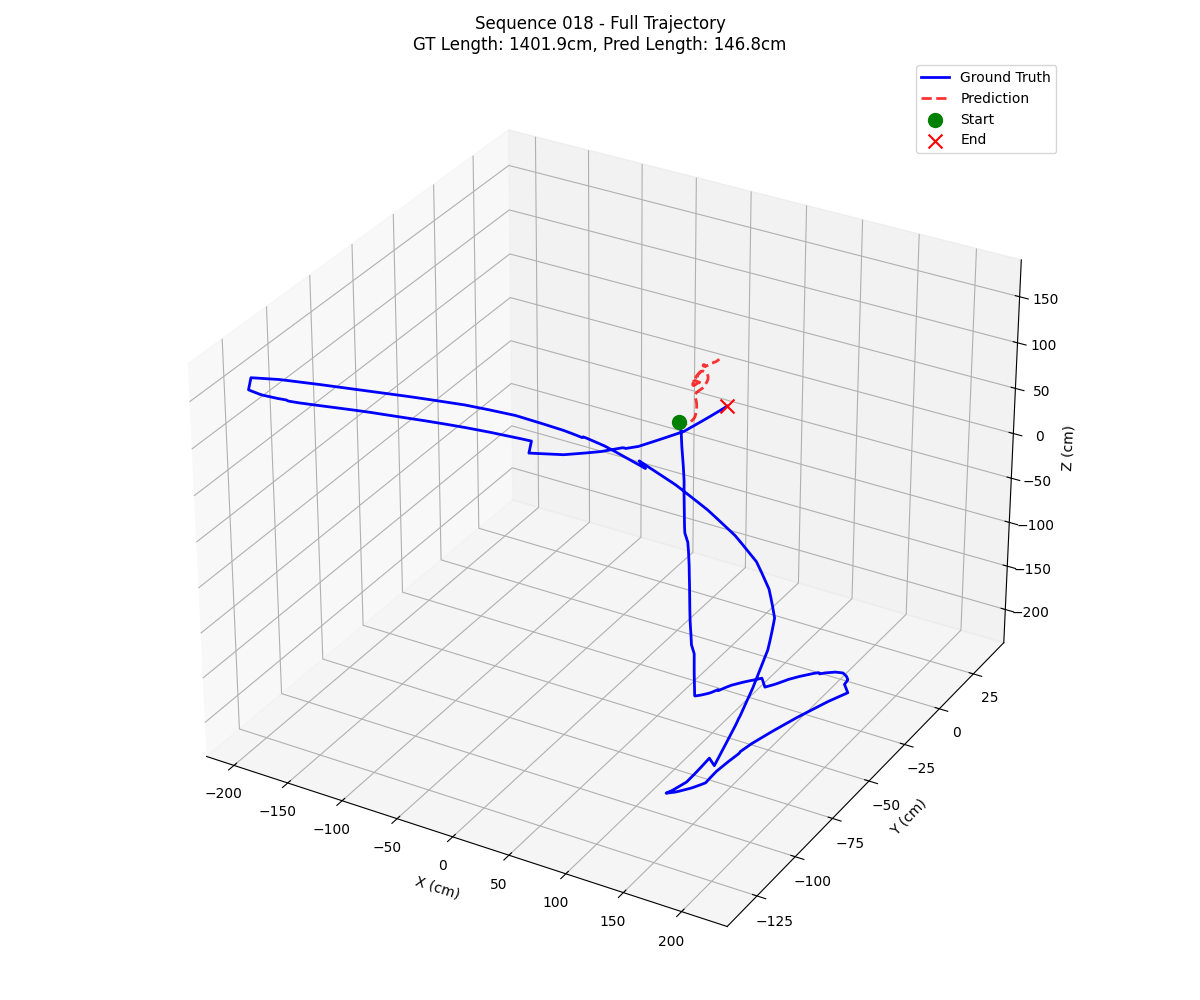
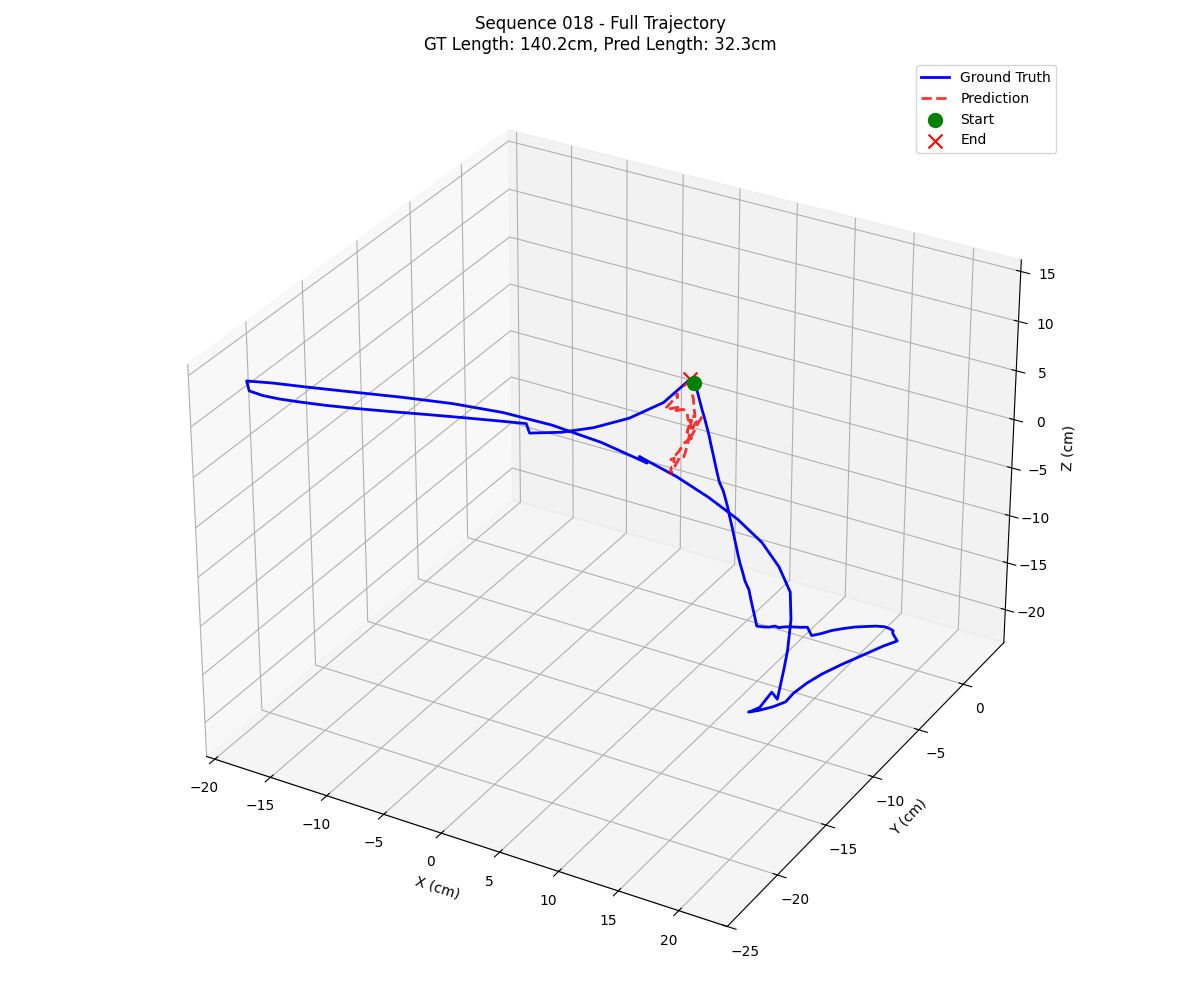
only predict the last relative position

diff --git a/train_vift_aria_stable.py b/train_vift_aria_stable.py
@@ -132,8 +132,8 @@ class VIFTStable(nn.Module):
         output = self.fc2(output)
 
         # For relative poses between consecutive frames
-        # Use full sequence of relative pose outputs
-        predictions = output  # shape [B, seq_len, 7]
+        # Take only the last prediction (current -> next frame) to match paper
+        predictions = output[:, -1:, :]  # shape [B, 1, 7]
         
         # Split and normalize quaternions
         translation = predictions[:, :, :3]
@@ -182,14 +182,12 @@ def robust_geodesic_loss(pred_quat, gt_quat):
 
 def compute_stable_loss(predictions, batch, trans_weight=1.0, rot_weight=1.0):
     """Stable loss computation with gradient-friendly formulation"""
-    pred_poses = predictions['poses']
+    pred_poses = predictions['poses']  # [B, 1, 7] - only last prediction
     gt_poses = batch['poses']  # [B, seq_len, 7]
     
-    # Ensure shapes match
-    if pred_poses.shape[1] != gt_poses.shape[1]:
-        min_len = min(pred_poses.shape[1], gt_poses.shape[1])
-        pred_poses = pred_poses[:, :min_len, :]
-        gt_poses = gt_poses[:, :min_len, :]
+    # For causal prediction, we compare the last prediction with the last ground truth
+    # This represents the transition from current to next frame
+    gt_poses = gt_poses[:, -1:, :]  # Take only the last ground truth pose
     
     # Split predictions and ground truth
     pred_trans = pred_poses[:, :, :3]
